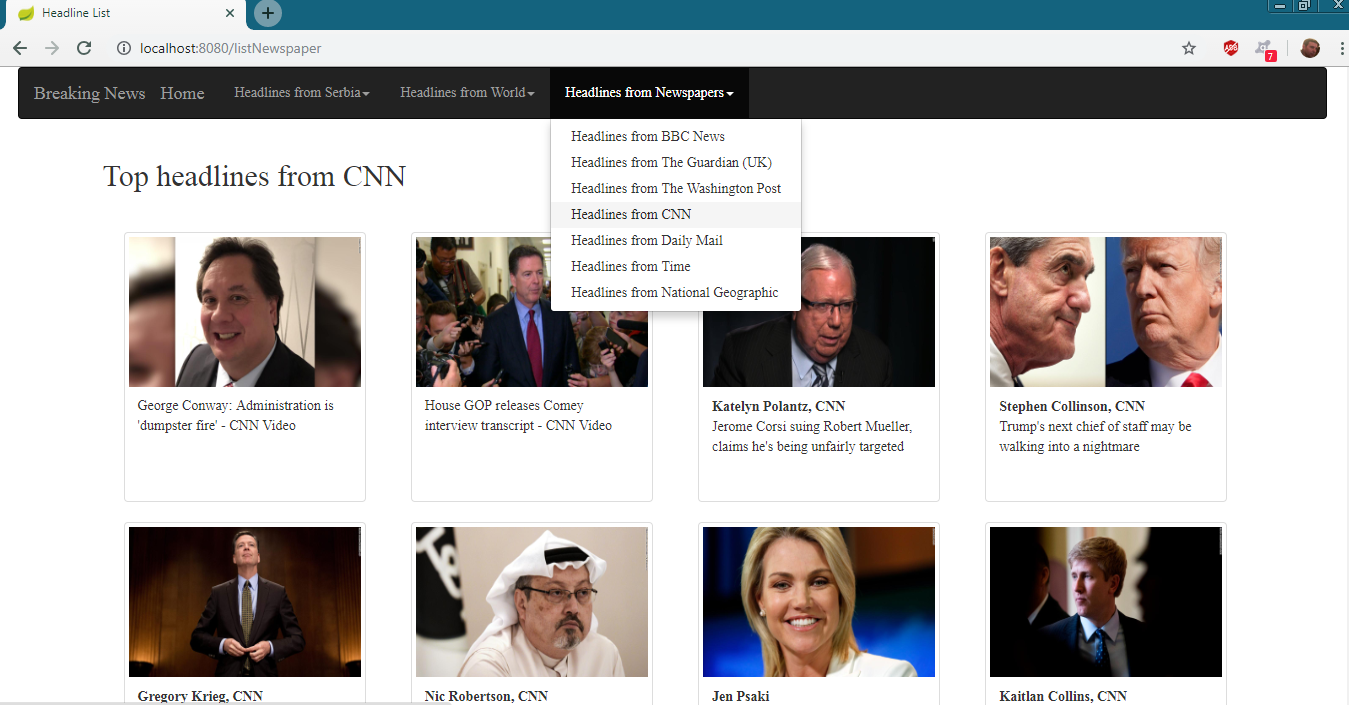
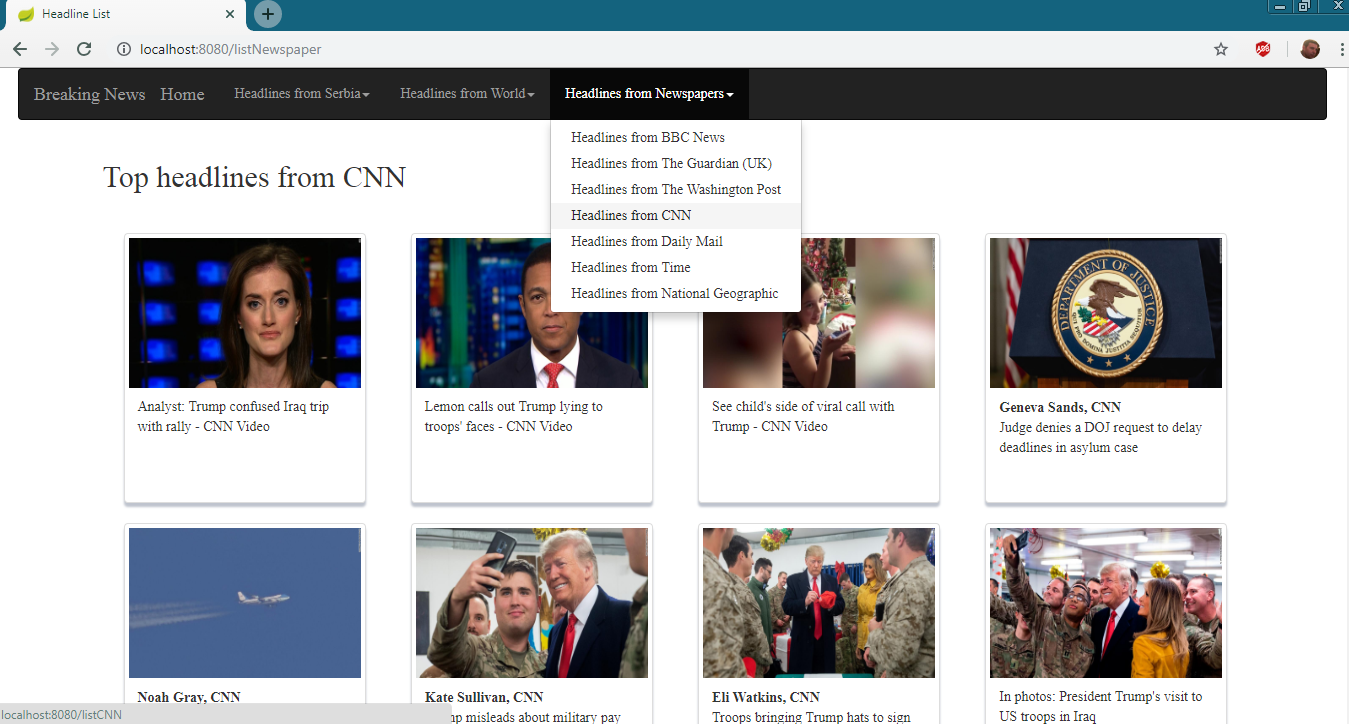
change cards

diff --git a/src/main/resources/templates/headline_list.html b/src/main/resources/templates/headline_list.html
@@ -9,88 +9,96 @@
     <script src="https://cdnjs.cloudflare.com/ajax/libs/popper.js/1.14.3/umd/popper.min.js"></script>
     <script src="https://maxcdn.bootstrapcdn.com/bootstrap/3.3.7/js/bootstrap.min.js"></script>
 
+    <style>
+        .thumbnail {
+            box-shadow: 0 4px 2px rgba(43, 59, 93, 0.30);
+        }
+    </style>
 </head>
 <body>
-
-
-
-    <nav class="navbar navbar-inverse" style="margin-left: 20px; margin-right: 20px">
-        <div class="container-fluid">
-            <div class="navbar-header">
-                <a class="navbar-brand" style="font-family: 'sans-serif'" href="#">Breaking News</a>
-            </div>
-            <div class="nav navbar-nav">
-                <a class="navbar-brand" style="font-family: 'sans-serif'"th:href="@{/}">Home</a>
-            </div>
-            <ul class="nav navbar-nav">
-                <li class="dropdown" style="font-family: 'sans-serif'">
-                    <a href="#" class="dropdown-toggle" data-toggle="dropdown" role="button" aria-haspopup="true" aria-expanded="false">Headlines from Serbia<span class="caret"></span></a>
-                    <ul class="dropdown-menu">
-                        <li><a th:href="@{/listTop}">Top headlines</a></li>
-                        <li><a th:href="@{/listScience}">Top science headlines</a></li>
-                        <li><a th:href="@{/listSports}">Top sports headlines</a></li>
-                        <li><a th:href="@{/listHealth}">Top health headlines</a></li>
-                        <li><a th:href="@{/listBusiness}">Top business headlines</a></li>
-                        <li><a th:href="@{/listTechnology}">Top technology headlines</a></li>
-                        <li><a th:href="@{/listEntertainment}">Top entertainment headlines</a></li>
-                    </ul>
-                </li>
-            </ul>
-            <ul class="nav navbar-nav">
-                <li class="dropdown" style="font-family: 'sans-serif'">
-                    <a href="#" class="dropdown-toggle" data-toggle="dropdown" role="button" aria-haspopup="true" aria-expanded="false">Headlines from World<span class="caret"></span></a>
-                    <ul class="dropdown-menu">
-                        <li><a th:href="@{/listUSA}">Headlines from USA</a></li>
-                        <li><a th:href="@{/listRussia}">Headlines from Russia</a></li>
-                        <li><a th:href="@{/listAustralia}">Headlines from Australia</a></li>
-                        <li><a th:href="@{/listUnitedKingdom}">Headlines from United Kingdom</a></li>
-                        <li><a th:href="@{/listChina}">Headlines from China</a></li>
-                        <li><a th:href="@{/listJapan}">Headlines from Japan</a></li>
-                        <li><a th:href="@{/listGermany}">Headlines from Germany</a></li>
-                    </ul>
-                </li>
-            </ul>
-            <ul class="nav navbar-nav">
-                <li class="dropdown" style="font-family: 'sans-serif'">
-                    <a href="#" class="dropdown-toggle" data-toggle="dropdown" role="button" aria-haspopup="true" aria-expanded="false">Headlines from Newspapers<span class="caret"></span></a>
-                    <ul class="dropdown-menu">
-                        <li><a th:href="@{/listBBCNews}">Headlines from BBC News</a></li>
-                        <li><a th:href="@{/listGuardian}">Headlines from The Guardian (UK)</a></li>
-                        <li><a th:href="@{/listWashingtonPost}">Headlines from The Washington Post</a></li>
-                        <li><a th:href="@{/listCNN}">Headlines from CNN</a></li>
-                        <li><a th:href="@{/listDailyMail}">Headlines from Daily Mail</a></li>
-                        <li><a th:href="@{/listTime}">Headlines from Time</a></li>
-                        <li><a th:href="@{/listNG}">Headlines from National Geographic</a></li>
-                    </ul>
-                </li>
-            </ul>
+<nav class="navbar navbar-inverse" style="margin-left: 20px; margin-right: 20px">
+    <div class="container-fluid">
+        <div class="navbar-header">
+            <a class="navbar-brand" style="font-family: 'sans-serif'" href="#">Breaking News</a>
         </div>
-    </nav>
-    <div class="container">
+        <div class="nav navbar-nav">
+            <a class="navbar-brand" style="font-family: 'sans-serif'" th:href="@{/}">Home</a>
+        </div>
+        <ul class="nav navbar-nav">
+            <li class="dropdown" style="font-family: 'sans-serif'">
+                <a href="#" class="dropdown-toggle" data-toggle="dropdown" role="button" aria-haspopup="true"
+                   aria-expanded="false">Headlines from Serbia<span class="caret"></span></a>
+                <ul class="dropdown-menu">
+                    <li><a th:href="@{/listTop}">Top headlines</a></li>
+                    <li><a th:href="@{/listScience}">Top science headlines</a></li>
+                    <li><a th:href="@{/listSports}">Top sports headlines</a></li>
+                    <li><a th:href="@{/listHealth}">Top health headlines</a></li>
+                    <li><a th:href="@{/listBusiness}">Top business headlines</a></li>
+                    <li><a th:href="@{/listTechnology}">Top technology headlines</a></li>
+                    <li><a th:href="@{/listEntertainment}">Top entertainment headlines</a></li>
+                </ul>
+            </li>
+        </ul>
+        <ul class="nav navbar-nav">
+            <li class="dropdown" style="font-family: 'sans-serif'">
+                <a href="#" class="dropdown-toggle" data-toggle="dropdown" role="button" aria-haspopup="true"
+                   aria-expanded="false">Headlines from World<span class="caret"></span></a>
+                <ul class="dropdown-menu">
+                    <li><a th:href="@{/listUSA}">Headlines from USA</a></li>
+                    <li><a th:href="@{/listRussia}">Headlines from Russia</a></li>
+                    <li><a th:href="@{/listAustralia}">Headlines from Australia</a></li>
+                    <li><a th:href="@{/listUnitedKingdom}">Headlines from United Kingdom</a></li>
+                    <li><a th:href="@{/listChina}">Headlines from China</a></li>
+                    <li><a th:href="@{/listJapan}">Headlines from Japan</a></li>
+                    <li><a th:href="@{/listGermany}">Headlines from Germany</a></li>
+                </ul>
+            </li>
+        </ul>
+        <ul class="nav navbar-nav">
+            <li class="dropdown" style="font-family: 'sans-serif'">
+                <a href="#" class="dropdown-toggle" data-toggle="dropdown" role="button" aria-haspopup="true"
+                   aria-expanded="false">Headlines from Newspapers<span class="caret"></span></a>
+                <ul class="dropdown-menu">
+                    <li><a th:href="@{/listBBCNews}">Headlines from BBC News</a></li>
+                    <li><a th:href="@{/listGuardian}">Headlines from The Guardian (UK)</a></li>
+                    <li><a th:href="@{/listWashingtonPost}">Headlines from The Washington Post</a></li>
+                    <li><a th:href="@{/listCNN}">Headlines from CNN</a></li>
+                    <li><a th:href="@{/listDailyMail}">Headlines from Daily Mail</a></li>
+                    <li><a th:href="@{/listTime}">Headlines from Time</a></li>
+                    <li><a th:href="@{/listNG}">Headlines from National Geographic</a></li>
+                </ul>
+            </li>
+        </ul>
+    </div>
+</nav>
+<div class="container">
     <div th:switch=true>
-        <h2 style="margin-bottom: 40px; font-family: 'sans-serif'" th:case="${category1 != null}">Top <span th:text="${category1}"></span> headlines from Serbia</h2>
-        <h2 style="margin-bottom: 40px; font-family: 'sans-serif'" th:case="${country1 != null}">Top headlines from <span th:text="${country1}"></span></h2>
-        <h2 style="margin-bottom: 40px; font-family: 'sans-serif'" th:case="${newspaper1 != null}">Top headlines from <span th:text="${newspaper1}"></span></h2>
+        <h2 style="margin-bottom: 40px; font-family: 'sans-serif'" th:case="${category1 != null}">Top <span
+                th:text="${category1}"></span> headlines from Serbia</h2>
+        <h2 style="margin-bottom: 40px; font-family: 'sans-serif'" th:case="${country1 != null}">Top headlines from
+            <span th:text="${country1}"></span></h2>
+        <h2 style="margin-bottom: 40px; font-family: 'sans-serif'" th:case="${newspaper1 != null}">Top headlines from
+            <span th:text="${newspaper1}"></span></h2>
     </div>
 
     <div class="row" style="margin-left: 6px">
         <div th:each="headline : ${headlines}">
-        <div class="col-md-3">
+            <div class="col-md-3">
 
-            <div class="thumbnail" style="width: 242px; height: 270px">
-                <a th:href="@{/headline/{id}(id=${headline.headlineID})}">
-                <img th:src="${headline.urlToImage}" style="width: 242px; height: 150px" alt="...">
-            </a>
-                <div class="caption">
+                <div class="thumbnail" style="width: 242px; height: 270px">
+                    <a th:href="@{/headline/{id}(id=${headline.headlineID})}">
+                        <img th:src="${headline.urlToImage}" style="width: 242px; height: 150px" alt="...">
+                    </a>
+                    <div class="caption">
 
-                    <b th:text="${headline.author}" style="font-family: 'sans-serif'"></b>
+                        <b th:text="${headline.author}" style="font-family: 'sans-serif'"></b>
 
-                    <p th:text="${headline.title}" style="font-family: 'sans-serif'"></p>
+                        <p th:text="${headline.title}" style="font-family: 'sans-serif'"></p>
 
+                    </div>
                 </div>
-            </div>
 
-        </div>
+            </div>
         </div>
     </div>
 
